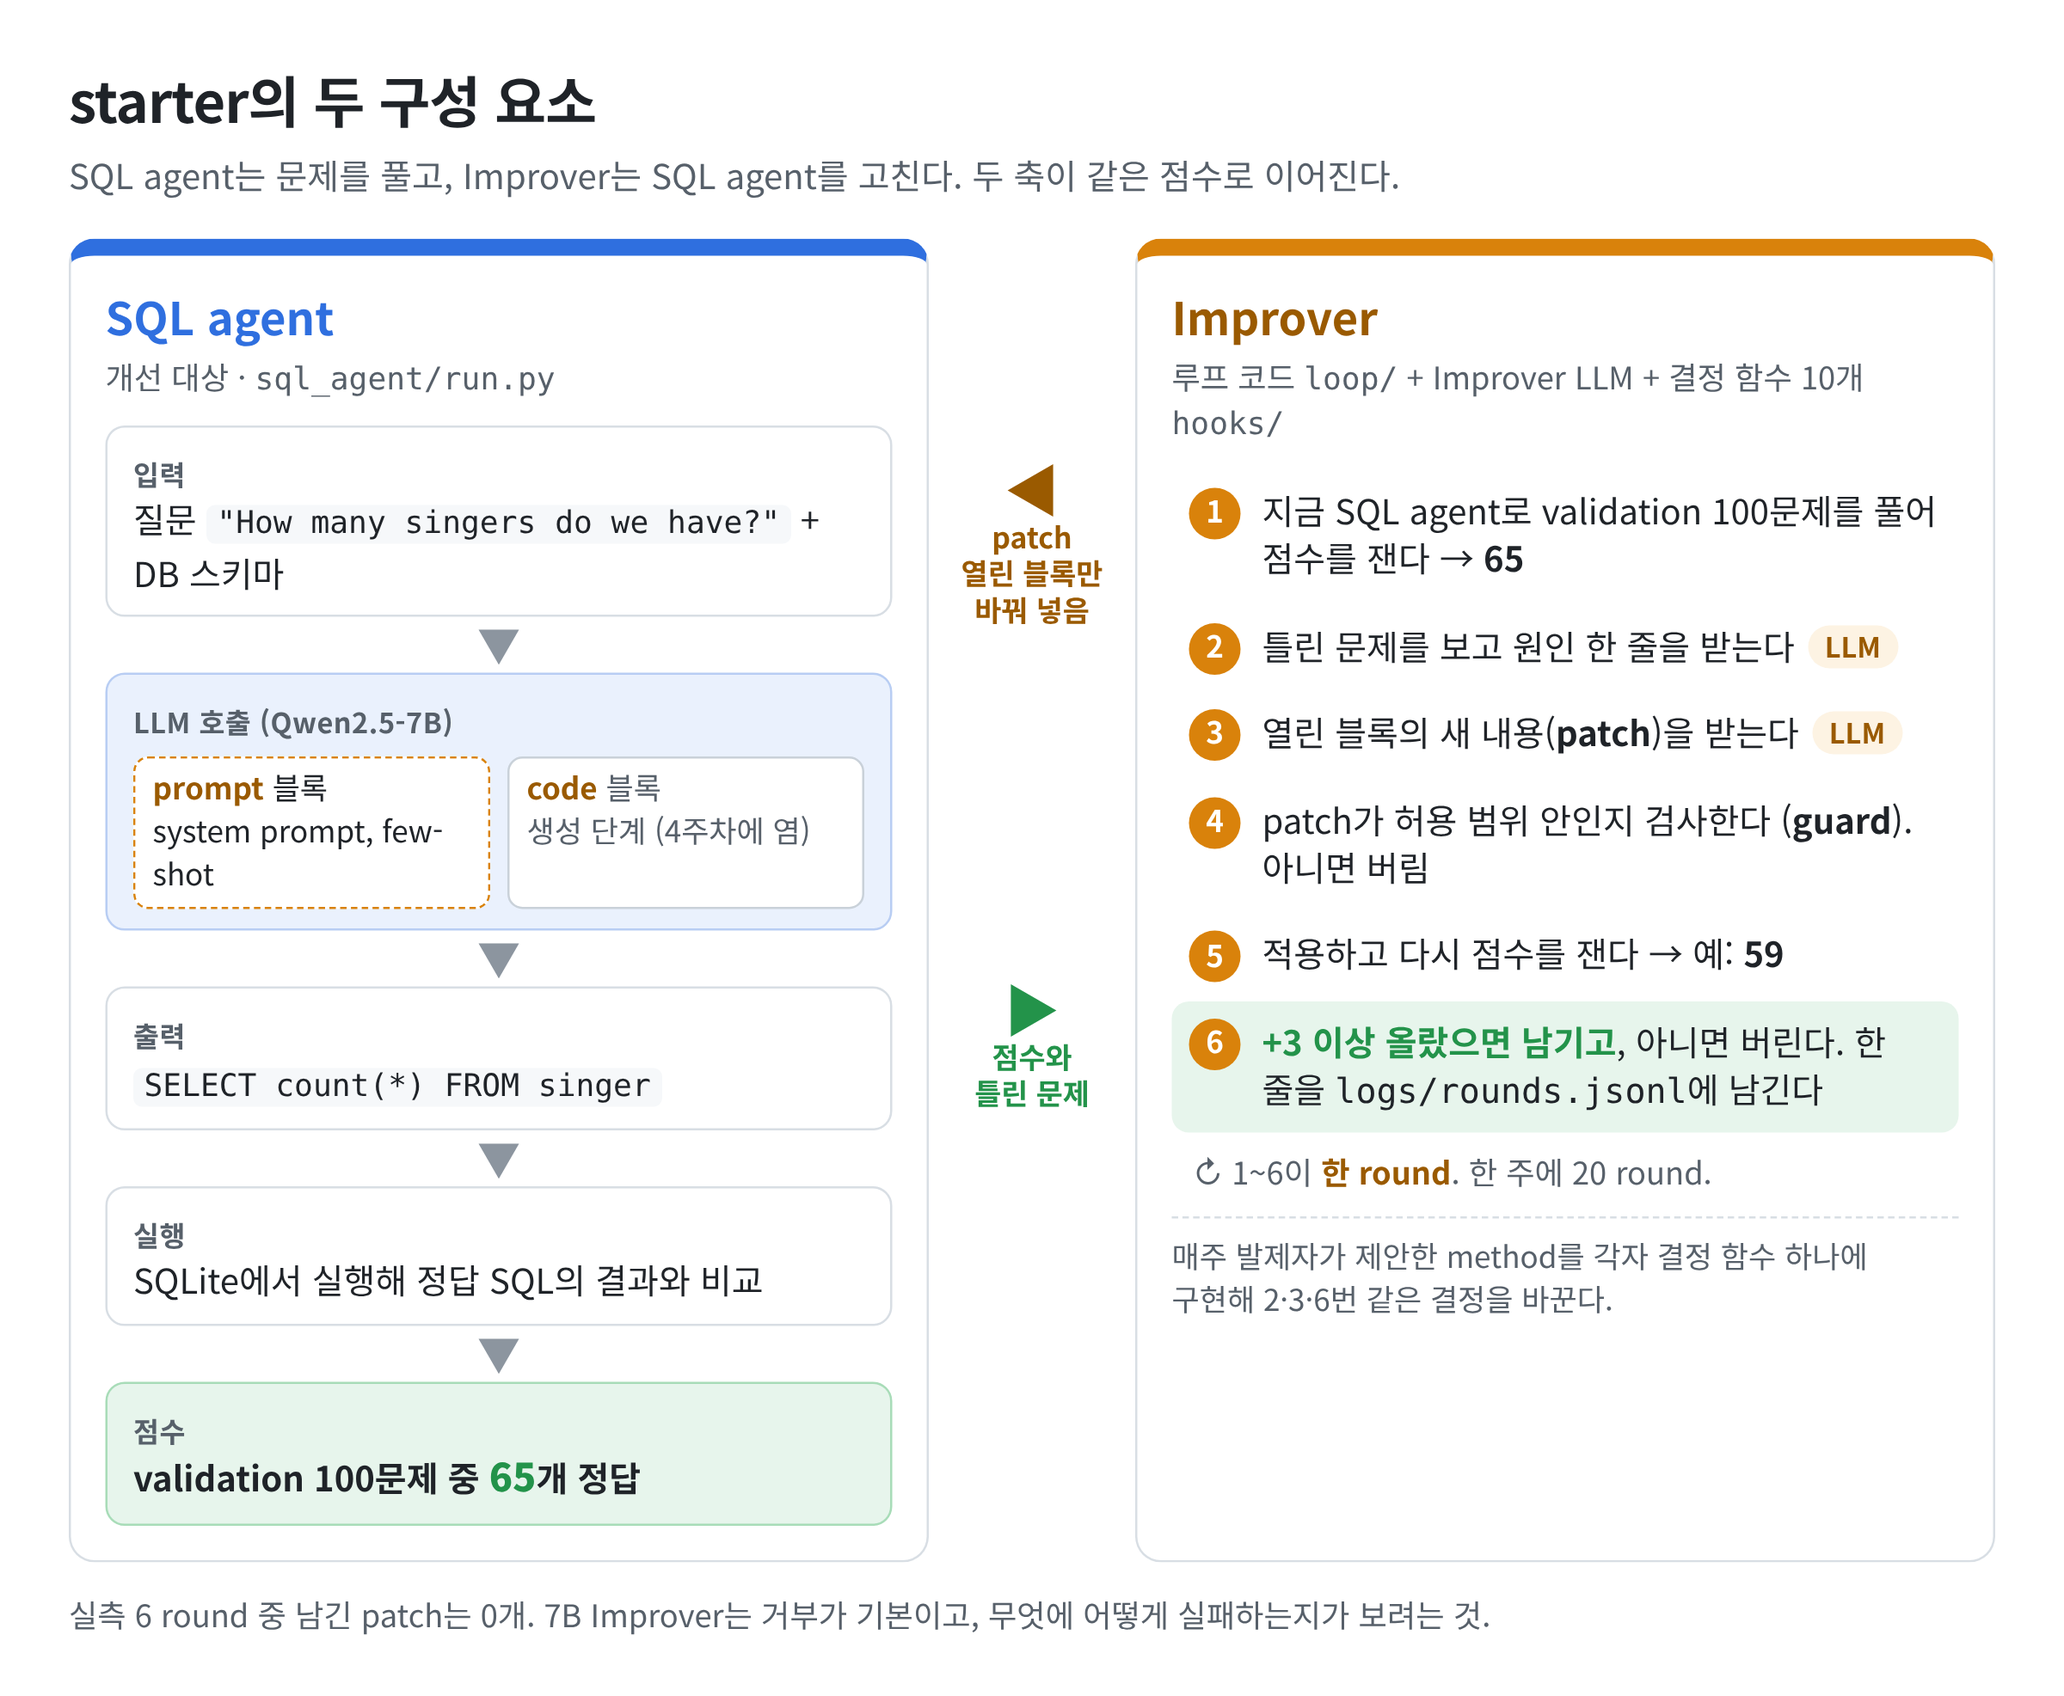
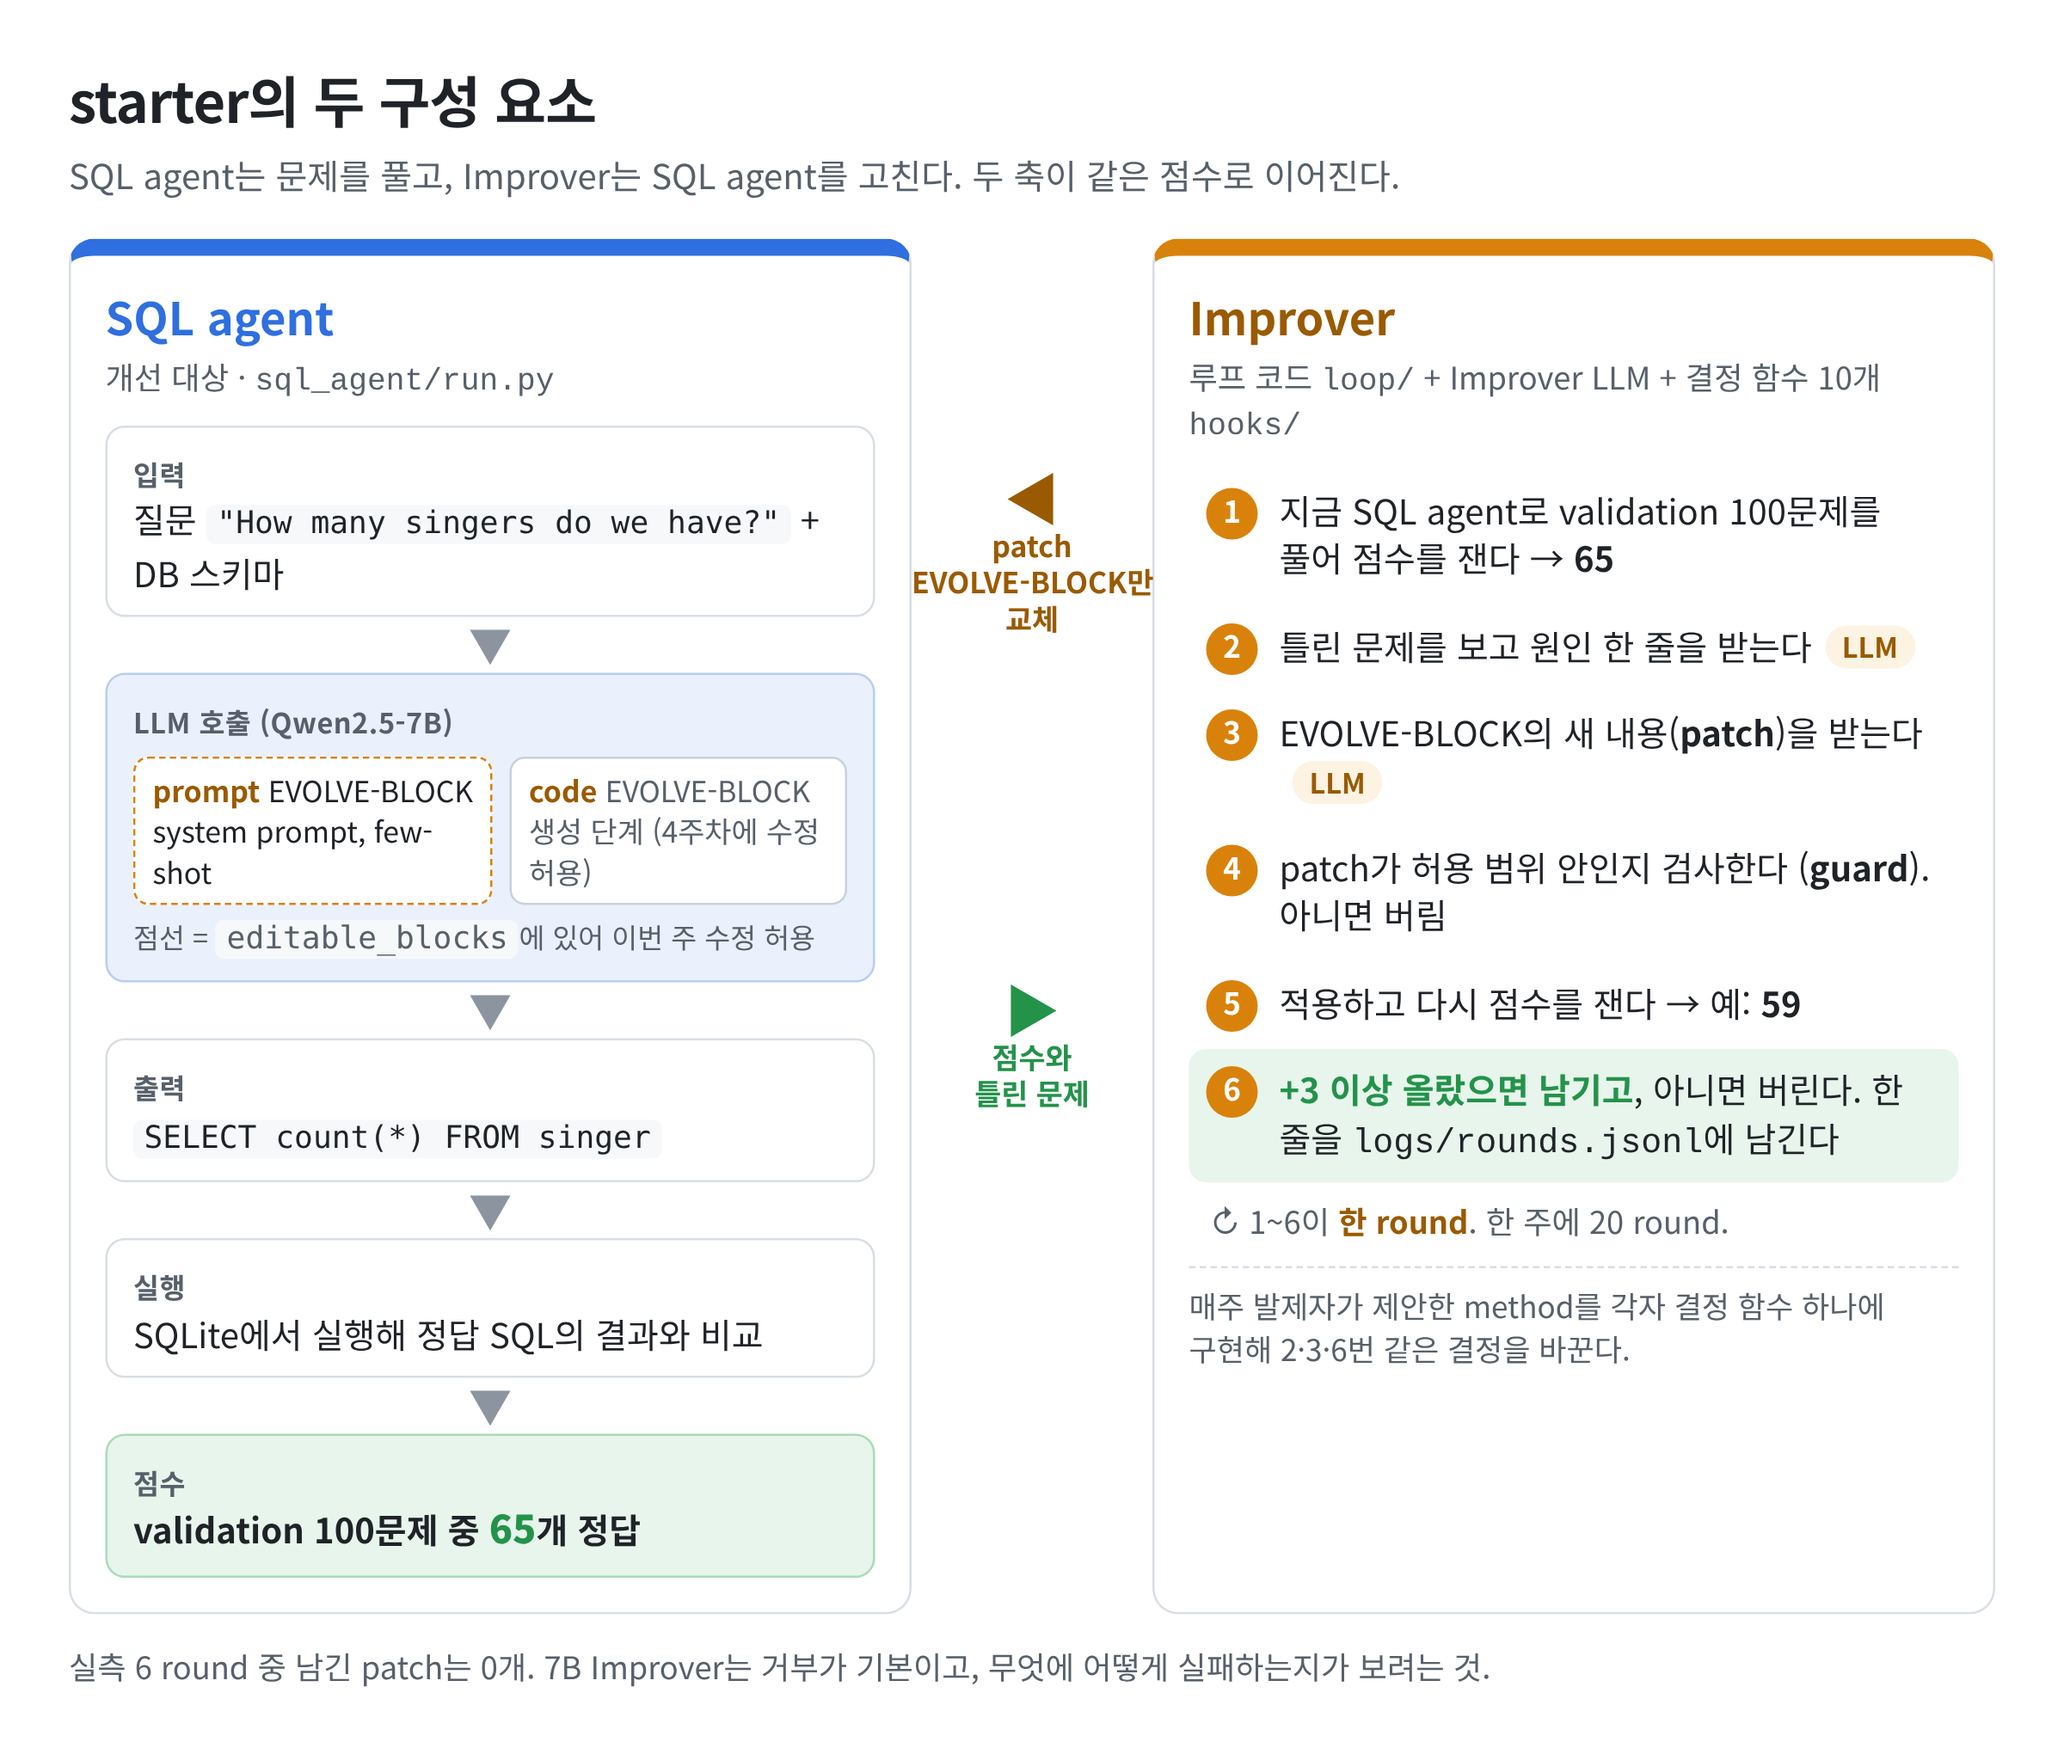
Rename config key open_blocks -> editable_blocks; define EVOLVE-BLOCK in README
- config.yaml, loop/run.py, loop/patch.py, loop/context.py: editable_blocks
- README: EVOLVE-BLOCK definition with AlphaEvolve origin, drop "열린 블록" wording
- docs/components.png: labels updated

Claude-Session: https://claude.ai/code/session_016zuU2mSgMQZFFveCAhWrPT

diff --git a/loop/run.py b/loop/run.py
@@ -104,8 +104,8 @@ def main() -> None:
         archive.record(parent, before["correct"], None)
         if archive.best is None:
             archive.set_best(parent)
-        block_name = cfg["open_blocks"][0]
-        blocks = {b: P.read_block(P.locate(evolve_files, b), b) for b in cfg["open_blocks"]}
+        block_name = cfg["editable_blocks"][0]
+        blocks = {b: P.read_block(P.locate(evolve_files, b), b) for b in cfg["editable_blocks"]}
         ctx = RoundContext(round=rnd, week=cfg["week"], config=cfg, parent=parent, block_name=block_name,
                            block=blocks[block_name], blocks=blocks, before=before,
                            problems={p["id"]: p for p in problems}, predictions=preds, llm=llm.chat,
@@ -126,7 +126,7 @@ def main() -> None:
             pt = review_patch(ctx, pt)
             if pt is None:
                 entry["rejected_by"] = "review"; entry["reason"] += " | rejected by review_patch"; break
-            why = P.guard(pt, cfg["open_blocks"])
+            why = P.guard(pt, cfg["editable_blocks"])
             if why:
                 entry["rejected_by"] = "guard"; entry["reason"] = f"{pt.reason} | {why}"; dump_patch(rnd, pt, why); break
             target = P.locate(evolve_files, pt.block)

diff --git a/loop/patch.py b/loop/patch.py
@@ -67,9 +67,9 @@ def locate(files: list[str], name: str) -> Path | None:
     return None
 
 
-def guard(patch: Patch, open_blocks: list[str]) -> str | None:
+def guard(patch: Patch, editable_blocks: list[str]) -> str | None:
     """거부 사유 문자열, 통과면 None."""
-    if patch.block not in open_blocks:
+    if patch.block not in editable_blocks:
         return f"block '{patch.block}' not open"
     for bad in FORBIDDEN:
         if bad in patch.content:

diff --git a/loop/context.py b/loop/context.py
@@ -12,7 +12,7 @@ class RoundContext:
     config: dict
     parent: str
     block_name: str
-    block: str                        # open_blocks[0]의 현재 내용
+    block: str                        # editable_blocks[0]의 현재 내용
     before: dict                      # evaluate() 결과
     problems: dict                    # id -> problem (gold 포함, loop만 봄)
     predictions: dict                 # id -> sql (before 실행)
